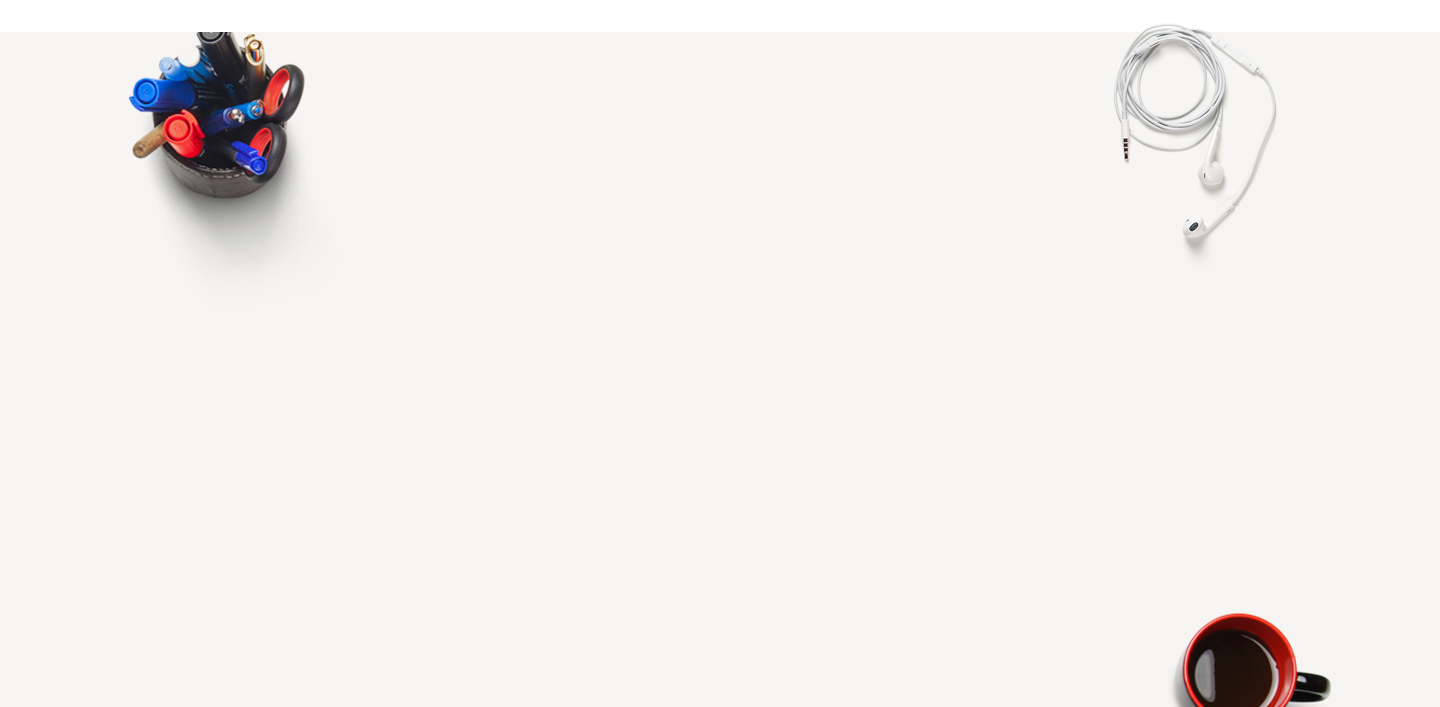
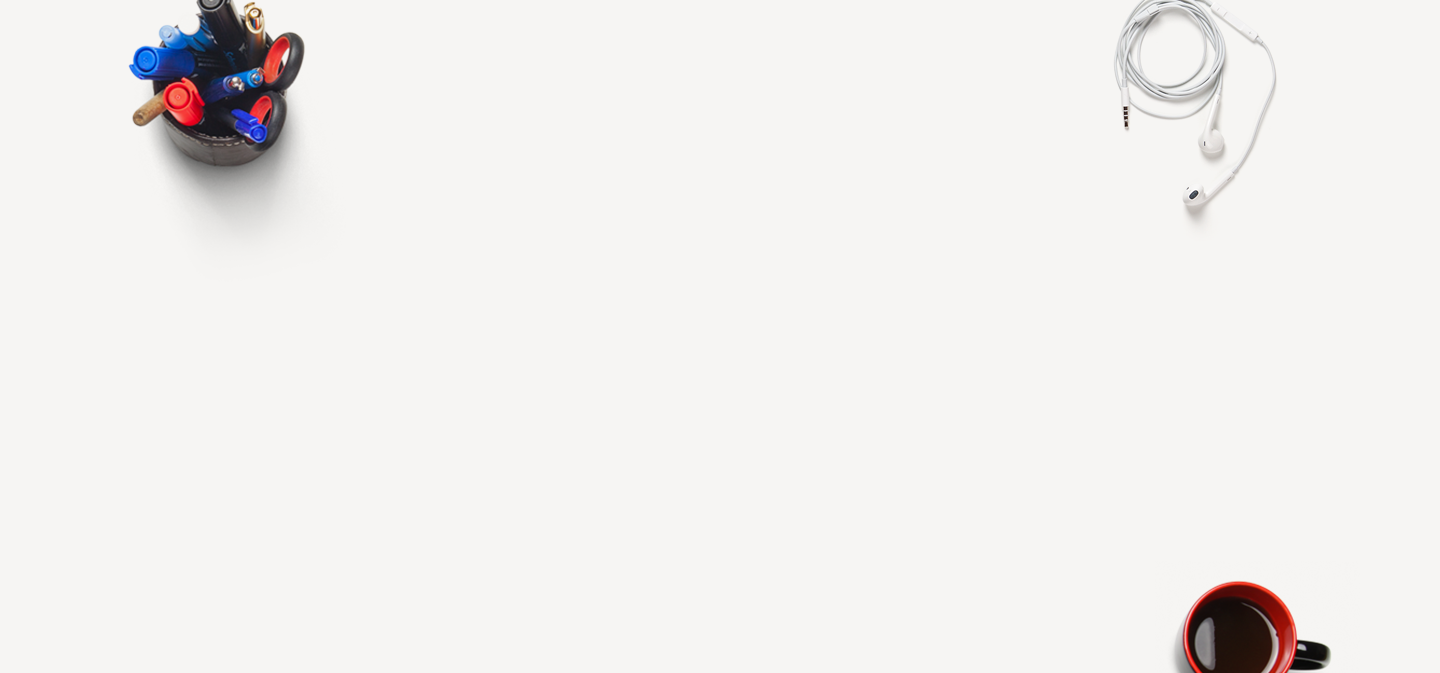
обрезка фона второй секции

diff --git a/src/parts/section2/section2.scss b/src/parts/section2/section2.scss
@@ -3,7 +3,6 @@
   .sect-two-title {
     font-family: "Exo-Meduim", sans-serif;
     text-align: center;
-    padding-top: 137px;
     h5{
       font-size: 16px;
       color: $pink;
@@ -32,5 +31,9 @@
       color: $section-body;
     }
   }
+
+}
+
+@media only screen and (max-width : 1200px) {
 
 }

diff --git a/src/parts/section2/section2.html b/src/parts/section2/section2.html
@@ -1,5 +1,5 @@
 <section class="main-sect-two bgi" style="background-image: url('./img/section-2/sect-2-bg.png')">
-    <div class="container pb180">
+    <div class="container pb180 pt137">
         <div class="row">
             <div class="col-xl-12">
                 <div class="sect-two-title">
